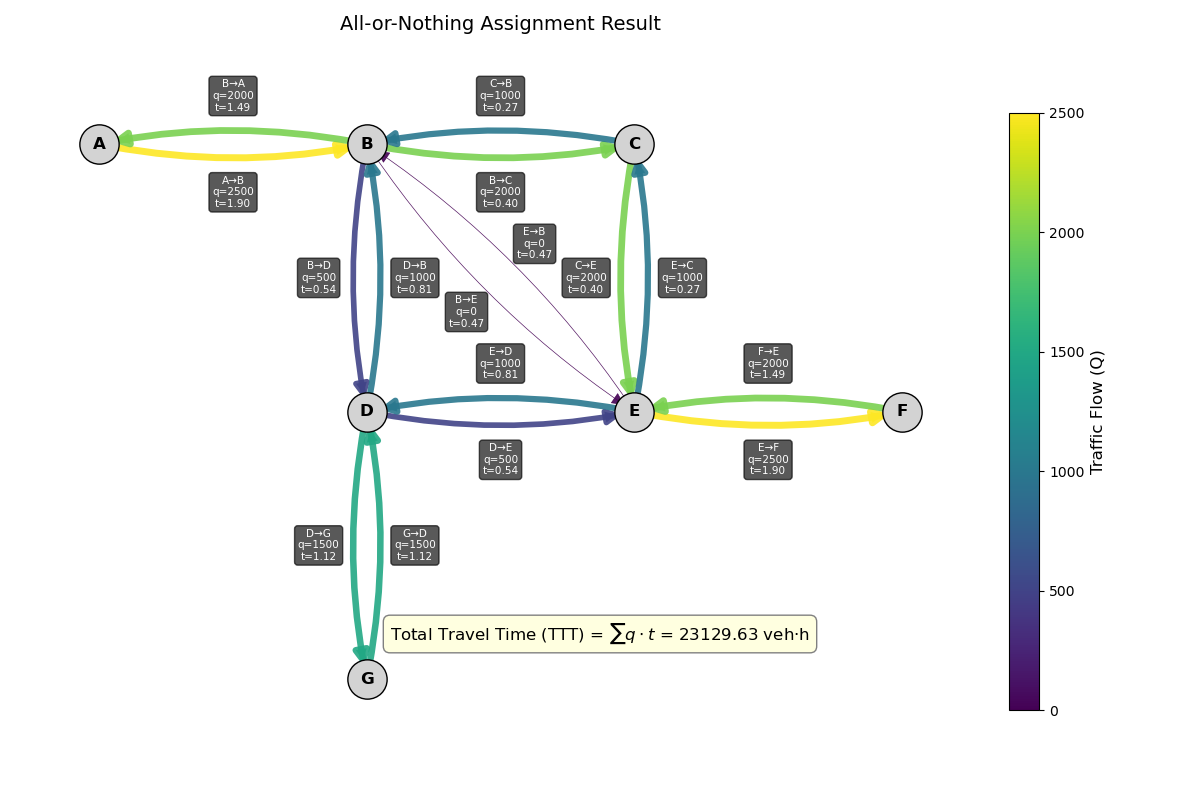
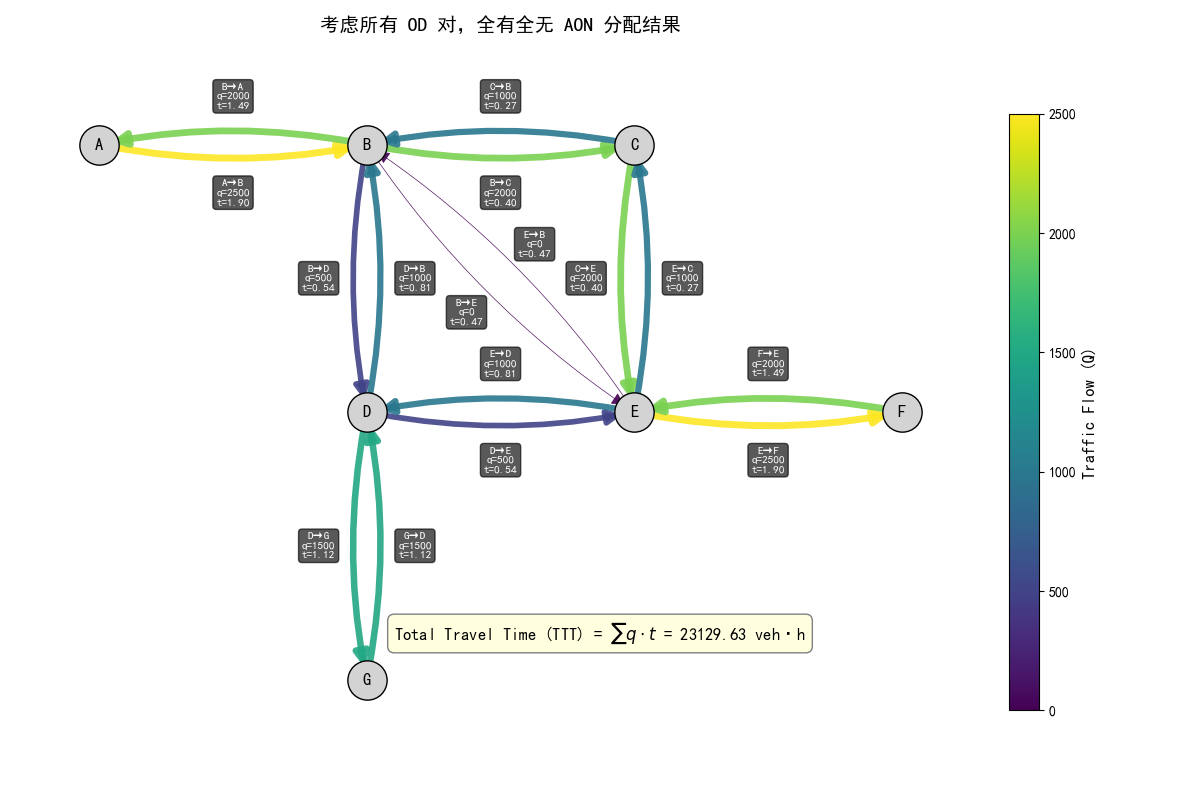
增加IA图片

diff --git a/main.py b/main.py
@@ -5,21 +5,7 @@ from calculate import get_link_travel_time
 from AON import All_or_Nothing_Traffic_Assignment
 from IA import Incremental_Traffic_Assignment
 from FW import Frank_Wolfe_Traffic_Assignment
-from visualize_network import visualize_network, build_network
-
-def print_path(links, path_link_indices):
-    """将路径的 link 索引列表转换为节点序列"""
-    if not path_link_indices:
-        return "No path"
-    nodes = []
-    # 从起点开始回溯（path 是反向的：[last_link, ..., first_link]）
-    current_node = links[path_link_indices[-1]]['from']
-    nodes.append(current_node)
-    for lid in reversed(path_link_indices):
-        next_node = links[lid]['to']
-        nodes.append(next_node)
-        current_node = next_node
-    return " → ".join(nodes)
+from visualize_network import visualize_network, build_network, print_path
 
 def main():
     print("=== 电子科技大学《交通规划原理》课程报告 - 软件测试 ===\n")
@@ -27,13 +13,13 @@ def main():
     network_file='data/network.json'
     demand_file='data/demand.json'
     
-    # 1. 加载数据
+    # 加载数据
     network, demand = load_network_and_demand(network_file, demand_file)
     
-    # 2. 构建图结构
+    # 构建图结构
     graph, links, pos, node_names, n_links = build_graph_and_links(network)
     
-    # 3. 整理 OD 需求
+    # 整理 OD 需求
     od_demand = {}
     for o, d, amt in zip(demand['from'], demand['to'], demand['amount']):
         od_demand[(o, d)] = od_demand.get((o, d), 0) + amt
@@ -42,10 +28,10 @@ def main():
     all_nodes = set(node_names)
 
     # ----------------------------
-    # 问题1：不考虑拥堵，任意两点间的最快路径（自由流时间）
+    # 问题1：不考虑拥堵时，任意两点间的最快路径是什么？
     # ----------------------------
-    print("问题1：不考虑拥堵时，任意两点间的最短路径（基于自由流时间 t0）")
-    print("注：如果有多条路径时间相等，仅显示其中一条。")
+    print("问题1：不考虑拥堵时，任意两点间的最快路径是什么？")
+    print("注：如果有多条路径时间相等，仅打印其中一条。")
     free_flow_tt = [link['t0'] for link in links]
     for o in sorted(all_nodes):
         for d in sorted(all_nodes):
@@ -53,7 +39,7 @@ def main():
                 continue
             path = dijkstra_shortest_path(graph, links, o, d, free_flow_tt)
             path_str = print_path(links, path) if path else "不可达"
-            print(f"  {o} → {d}: {path_str}")
+            print(f"  {o} to {d}: {path_str}")
     print()
 
     zero_od = {}
@@ -61,21 +47,23 @@ def main():
     # 可视化
     try:
         G = build_network(aon_zero_res)
-        visualize_network(G, aon_zero_res['pos'], TTT=aon_zero_res['total_travel_time'], 
-                        title="不考虑拥堵时，仅展示自由流t0")
+        visualize_network(G, aon_zero_res['pos'], None, 
+                        title="不考虑拥堵时，每个路段上的行程时间恒为自由流时间 t0")
     except ImportError:
         print("可视化不可用。跳过该步骤。")
 
-    print("我们注意到有意思的细节：明明BE之间有直接连接的道路，但是BE之间的最快路径反而是B→C→E，\n这是因为BC与CE道路上的限速为60，而BE上的限速为30.\n")
+    print("我们注意到有意思的细节：明明BE之间有直接连接的道路，但是BE之间的最快路径却是B→C→E，\n这是因为BC与CE道路上的限速为60，而BE上的限速为30.\n")
 
     # ----------------------------
-    # 问题2：已知流量下，考虑拥堵的最快路径
-    # 我们使用 FW 分配后的流量作为“已知流量”
+    # 问题2：假设各路段流量已知，考虑拥堵效应，任意两点之间的最快路径是什么？
     # ----------------------------
-    print("问题2：考虑拥堵效应，使用FW分配算法，任意两点间的最快路径")
+    print("问题2：假设各路段流量已知，考虑拥堵效应，任意两点之间的最快路径是什么？")
+    
+    # 为了回答这个问题，我们使用 FW 分配后的流量作为“已知流量”
     fw_result = Frank_Wolfe_Traffic_Assignment(links, graph, pos, node_names, n_links, od_demand)
     flow_vector = fw_result['flow']
-    # 计算当前拥堵下的行程时间
+    
+    # 考虑拥堵，计算当前拥堵下的行程时间
     congested_tt = [get_link_travel_time(flow_vector, i, links) for i in range(len(links))]
     for o in sorted(all_nodes):
         for d in sorted(all_nodes):
@@ -83,25 +71,63 @@ def main():
                 continue
             path = dijkstra_shortest_path(graph, links, o, d, congested_tt)
             path_str = print_path(links, path) if path else "不可达"
-            print(f"  {o} → {d}: {path_str}")
+            print(f"  {o} to {d}: {path_str}")
     print()
 
     # ----------------------------
-    # 问题3：仅 A→F 的 OD 对，执行 Frank-Wolfe 用户均衡分配
+    # 问题3：仅 A→F 的 OD 对，分别执行AON、IA与Frank-Wolfe用户均衡分配
     # ----------------------------
     print("🔍 问题3：仅考虑 OD 对 A→F（需求=2000），执行 Frank-Wolfe 用户均衡分配")
 
     # 构造仅含 A→F 的需求字典
     single_od = {('A', 'F'): 2000}
+    
+    # 执行 AON 分配（仅此 single_od）
+    aon_single_res = All_or_Nothing_Traffic_Assignment(links, graph, pos, node_names, single_od)
 
+    # 执行 IA 分配（仅此 single_od）
+    K1= 3
+    K2= 1000
+    ia_single_res_3 = Incremental_Traffic_Assignment(links, graph, pos, node_names, n_links, single_od, K1)
+    ia_single_res_1000 = Incremental_Traffic_Assignment(links, graph, pos, node_names, n_links, single_od, K2)
+    
     # 执行 FW 分配（仅此 single_od）
     fw_single_res = Frank_Wolfe_Traffic_Assignment(links, graph, pos, node_names, n_links, single_od)
 
-    # 可视化
+    methods = [
+        ("全有全无 (AON)", aon_single_res),
+        ("增量分配 (IA, K=3)", ia_single_res_3),
+        ("增量分配 (IA, K=1000)", ia_single_res_1000),
+        ("Frank-Wolfe (UE)", fw_single_res)
+    ]
+
+    for name, res in methods:
+        print(f"\n{name}:")
+        print("  路段流量 (q) 与行程时间 (t):")
+        for i, link in enumerate(links):
+            q = res['flow'][i]
+            t = get_link_travel_time(res['flow'], i, links)
+            print(f"    {link['from']}→{link['to']}: q={q:6.1f}, t={t:.2f}")
+        print(f"  总出行时间 (TTT): {res['total_travel_time']:.2f} veh·h")
+
     try:
+        G = build_network(aon_single_res)
+        visualize_network(G, aon_single_res['pos'], TTT=aon_single_res['total_travel_time'], 
+                        title="仅考虑 A→F 时，全有全无 AON 分配结果")
+        
+        IA_title=f"仅考虑 A→F 时，增量分配 IA 分配结果(K = 3)" 
+        G = build_network(ia_single_res_3)
+        visualize_network(G, ia_single_res_3['pos'], TTT=ia_single_res_3['total_travel_time'], 
+                        title=IA_title)
+        
+        IA_title=f"仅考虑 A→F 时，增量分配 IA 分配结果(K = 1000)" 
+        G = build_network(ia_single_res_1000)
+        visualize_network(G, ia_single_res_1000['pos'], TTT=ia_single_res_1000['total_travel_time'], 
+                        title=IA_title)
+
         G = build_network(fw_single_res)
         visualize_network(G, fw_single_res['pos'], TTT=fw_single_res['total_travel_time'],
-                        title="Frank-Wolfe 算法，仅考虑 A→F 时的分配结果")
+                        title="仅考虑 A→F 时，Frank-Wolfe 算法分配结果")
     except ImportError:
         print("可视化不可用。跳过该步骤。")
 
@@ -112,15 +138,21 @@ def main():
     
     # AON
     aon_res = All_or_Nothing_Traffic_Assignment(links, graph, pos, node_names, od_demand)
-    # IA (K=1000)
-    K = 1000
-    ia_res = Incremental_Traffic_Assignment(links, graph, pos, node_names, n_links, od_demand, K)
+    
+    # IA 
+    K1 = 3
+    K2 = 1000
+    
+    ia_res_3 = Incremental_Traffic_Assignment(links, graph, pos, node_names, n_links, od_demand, K1)
+    ia_res_1000 = Incremental_Traffic_Assignment(links, graph, pos, node_names, n_links, od_demand, K2)
+    
     # FW
     fw_res = Frank_Wolfe_Traffic_Assignment(links, graph, pos, node_names, n_links, od_demand)  
 
     methods = [
         ("全有全无 (AON)", aon_res),
-        ("增量分配 (IA, K=1000)", ia_res),
+        ("增量分配 (IA, K=3)", ia_res_3),
+        ("增量分配 (IA, K=1000)", ia_res_1000),
         ("Frank-Wolfe (UE)", fw_res)
     ]
 
@@ -136,16 +168,20 @@ def main():
     try:
         G = build_network(aon_res)
         visualize_network(G, aon_res['pos'], TTT=aon_res['total_travel_time'], 
-                        title="全有全无 AON 分配结果")
+                        title="考虑所有 OD 对，全有全无 AON 分配结果")
         
-        IA_title=f"增量分配 IA 分配结果(K = {K})" 
-        G = build_network(ia_res)
-        visualize_network(G, ia_res['pos'], TTT=ia_res['total_travel_time'], 
+        IA_title=f"考虑所有 OD 对，增量分配 IA 分配结果(K = {K1})" 
+        G = build_network(ia_res_3)
+        visualize_network(G, ia_res_3['pos'], TTT=ia_res_3['total_travel_time'], 
+                        title=IA_title)
+        IA_title=f"考虑所有 OD 对，增量分配 IA 分配结果(K = {K2})" 
+        G = build_network(ia_res_1000)
+        visualize_network(G, ia_res_1000['pos'], TTT=ia_res_1000['total_travel_time'], 
                         title=IA_title)
 
         G = build_network(fw_res)
         visualize_network(G, fw_res['pos'], TTT=fw_res['total_travel_time'],
-                        title="Frank-Wolfe 算法分配结果")
+                        title="考虑所有 OD 对，Frank-Wolfe 算法分配结果")
     except ImportError:
         print("可视化不可用。跳过该步骤。")
     

diff --git a/visualize_network.py b/visualize_network.py
@@ -95,15 +95,20 @@ def visualize_network(G, pos_dict, TTT, title="Traffic Assignment Result"):
         label_y = mid_y + offset[1]
         
         # 三行文本：路段名 + 流量 + 行程时间
-        label_text = f"{u}→{v}\nq={q:.0f}\nt={t:.2f}"
+        label_text = f"{u}→{v}\nq={q:.2f}\nt={t:.2f}"
         ax.annotate(
             label_text,
             xy=(label_x, label_y),
-            fontsize=8.0,  # 稍小以适应三行
+            fontsize=10.0,  # 稍小以适应三行
             color='white',
             ha='center',
             va='center',
-            bbox=dict(boxstyle="round,pad=0.3", facecolor="black", alpha=0.65),
+            bbox=dict(
+            boxstyle="round,pad=0.3",  # pad 控制内边距
+            facecolor="black", 
+            alpha=0.75,
+            linewidth=0.8  # 边框线宽
+            ),
             zorder=5
         )
 
@@ -136,3 +141,17 @@ def visualize_network(G, pos_dict, TTT, title="Traffic Assignment Result"):
     plt.axis('off')
     plt.tight_layout()
     plt.show()
+
+def print_path(links, path_link_indices):
+    """将路径的 link 索引列表转换为节点序列"""
+    if not path_link_indices:
+        return "No path"
+    nodes = []
+    # 从起点开始回溯（path 是反向的：[last_link, ..., first_link]）
+    current_node = links[path_link_indices[-1]]['from']
+    nodes.append(current_node)
+    for lid in reversed(path_link_indices):
+        next_node = links[lid]['to']
+        nodes.append(next_node)
+        current_node = next_node
+    return " → ".join(nodes)
